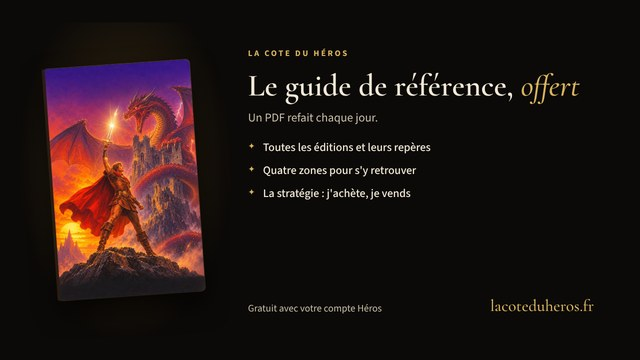
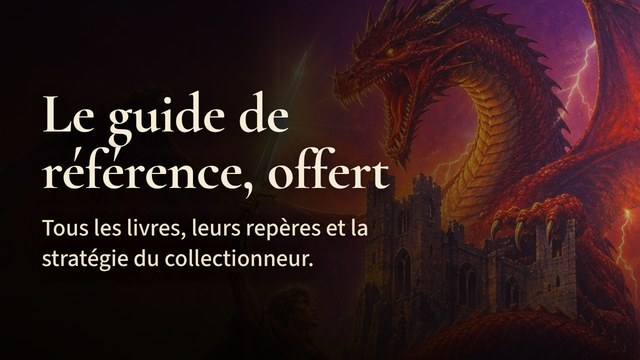
Images des nouvelles : fond illustré, titre et une phrase lisibles ; grande image dans le flux
Claude-Session: https://claude.ai/code/session_01HTe4GG8zQBr2ycdCYNMDrp

diff --git a/web/guide-reference.html b/web/guide-reference.html
@@ -13,7 +13,7 @@
 <meta property="og:image" content="https://lacoteduheros.fr/data/communaute/guide-reference-partage.jpg">
 <meta property="og:image:width" content="1200">
 <meta property="og:image:height" content="630">
-<meta property="og:image:alt" content="Le guide de référence de La Cote du Héros : une couverture de héros face à un dragon, et ce que contient le guide">
+<meta property="og:image:alt" content="Le guide de référence, offert : un héros brandit son épée face à un dragon">
 <meta name="twitter:card" content="summary_large_image">
 <meta name="color-scheme" content="dark">
 <meta name="theme-color" content="#000000">
@@ -53,7 +53,7 @@
 <main id="main" class="cadre page nouvelle">
 <p class="surtitre">Nouvelle · <time datetime="2026-11-22">22 novembre 2026</time></p>
 <h1>Le guide de référence, offert</h1>
-<img class="nouvelle-img pleine" src="images/guide-reference.webp" alt="Le guide de référence de La Cote du Héros : une couverture de héros face à un dragon, et ce que contient le guide" width="1200" height="630" decoding="async">
+<img class="nouvelle-img pleine" src="images/guide-reference.webp" alt="Le guide de référence, offert : un héros brandit son épée face à un dragon" width="1200" height="630" decoding="async">
 <p>Chaque livre, chaque édition et ses repères du marché, avec une stratégie pour acheter et vendre selon la zone de chaque livre. Le guide est <strong>offert</strong> et <strong>refait chaque jour</strong>.</p>
 <h2>Dedans</h2>
 <ul>

diff --git a/web/sorcier.html b/web/sorcier.html
@@ -10,10 +10,10 @@
 <meta property="og:locale" content="fr_FR">
 <meta property="og:title" content="Le profil Sorcier arrive · La Cote du Héros">
 <meta property="og:description" content="Un nouveau profil arrive : le Sorcier, offert 3 mois à tout nouveau compte. Ce qu\'il apporte par rapport au Héros et au Visiteur.">
-<meta property="og:image" content="https://lacoteduheros.fr/data/communaute/sorcier.jpg">
-<meta property="og:image:width" content="640">
-<meta property="og:image:height" content="360">
-<meta property="og:image:alt" content="Un sorcier lève son bâton lumineux face à un dragon">
+<meta property="og:image" content="https://lacoteduheros.fr/data/communaute/sorcier-partage.jpg">
+<meta property="og:image:width" content="1200">
+<meta property="og:image:height" content="630">
+<meta property="og:image:alt" content="Le profil Sorcier : un sorcier face à un dragon rouge">
 <meta name="twitter:card" content="summary_large_image">
 <meta name="color-scheme" content="dark">
 <meta name="theme-color" content="#000000">

diff --git a/web/lot.html b/web/lot.html
@@ -10,10 +10,10 @@
 <meta property="og:locale" content="fr_FR">
 <meta property="og:title" content="Le lot d'achat et de vente · La Cote du Héros">
 <meta property="og:description" content="Un outil réservé aux Sorciers : cochez plusieurs livres et voyez le prix à offrir, le prix à afficher et le port du lot.">
-<meta property="og:image" content="https://lacoteduheros.fr/data/communaute/lot.jpg">
-<meta property="og:image:width" content="640">
-<meta property="og:image:height" content="360">
-<meta property="og:image:alt" content="Une hydre attaque un navire sur une mer agitée">
+<meta property="og:image" content="https://lacoteduheros.fr/data/communaute/lot-partage.jpg">
+<meta property="og:image:width" content="1200">
+<meta property="og:image:height" content="630">
+<meta property="og:image:alt" content="Le lot d'achat et de vente : un guerrier face à un golem de lave">
 <meta name="twitter:card" content="summary_large_image">
 <meta name="color-scheme" content="dark">
 <meta name="theme-color" content="#000000">

diff --git a/web/essai-sorcier.html b/web/essai-sorcier.html
@@ -13,7 +13,7 @@
 <meta property="og:image" content="https://lacoteduheros.fr/data/communaute/essai-sorcier-partage.jpg">
 <meta property="og:image:width" content="1200">
 <meta property="og:image:height" content="630">
-<meta property="og:image:alt" content="Les outils du Héros et du Sorcier côte à côte, devant un sorcier et un dragon">
+<meta property="og:image:alt" content="Trois mois de Sorcier offerts : un sorcier face à un dragon">
 <meta name="twitter:card" content="summary_large_image">
 <meta name="color-scheme" content="dark">
 <meta name="theme-color" content="#000000">

diff --git a/pipeline/flux_nouvelles.py b/pipeline/flux_nouvelles.py
@@ -1,7 +1,7 @@
 """Flux RSS des nouvelles du site (web/nouvelles.xml), à relier à une page Facebook (Make).
 
 Usage : python pipeline/flux_nouvelles.py
-Une nouvelle est une entrée de web/data/communaute.json qui porte un champ « date » (AAAA-MM-JJ) : titre, texte, lien et image de la carte. Le champ facultatif « texte_flux » remplace la description dans le flux (texte plus détaillé pour les publications).
+Une nouvelle est une entrée de web/data/communaute.json qui porte un champ « date » (AAAA-MM-JJ) : titre, texte, lien et image de la carte. Les champs facultatifs « texte_flux » et « image_flux » remplacent la description et l'image dans le flux (texte détaillé et grande image pour les publications).
 Le flux est reconstruit en entier, les plus récentes en premier (20 au plus).
 Le 1er de chaque mois, une carte « Guide de référence : édition du mois » s'ajoute à la liste Communauté, donc au flux (workflow guide-mensuel.yml).
 """
@@ -71,7 +71,7 @@ def element(x, racine=RACINE):
         f"      <pubDate>{date_rss(x['date'])}</pubDate>",
         f"      <description>{escape(x.get('texte_flux') or x.get('description', ''))}</description>",
     ]
-    chemin = x.get("image", "")
+    chemin = x.get("image_flux") or x.get("image", "")
     if chemin:
         fichier = racine / "web" / chemin
         taille = fichier.stat().st_size if fichier.is_file() else 0

diff --git a/pipeline/test_flux_nouvelles.py b/pipeline/test_flux_nouvelles.py
@@ -34,6 +34,11 @@ class TestFlux(unittest.TestCase):
         self.assertEqual(item.findtext("description"), "Texte long.\n\nSuite.")
         self.assertEqual(liste[0]["description"], "courte")
 
+    def test_image_flux_remplace_l_image_de_la_carte_dans_le_flux(self):
+        liste = [{"nom": "Grande", "adresse": "https://lacoteduheros.fr/d.html", "description": "t", "image": "data/communaute/petite.jpg", "image_flux": "data/communaute/grande.jpg", "date": "2026-11-07"}]
+        item = ET.fromstring(construire(liste)).find("./channel/item")
+        self.assertEqual(item.find("enclosure").get("url"), "https://lacoteduheros.fr/data/communaute/grande.jpg")
+
     def test_date_a_l_heure_de_paris(self):
         self.assertEqual(date_rss("2026-11-05"), "Thu, 05 Nov 2026 08:00:00 +0100")
         self.assertEqual(date_rss("2026-07-14"), "Tue, 14 Jul 2026 08:00:00 +0200")
